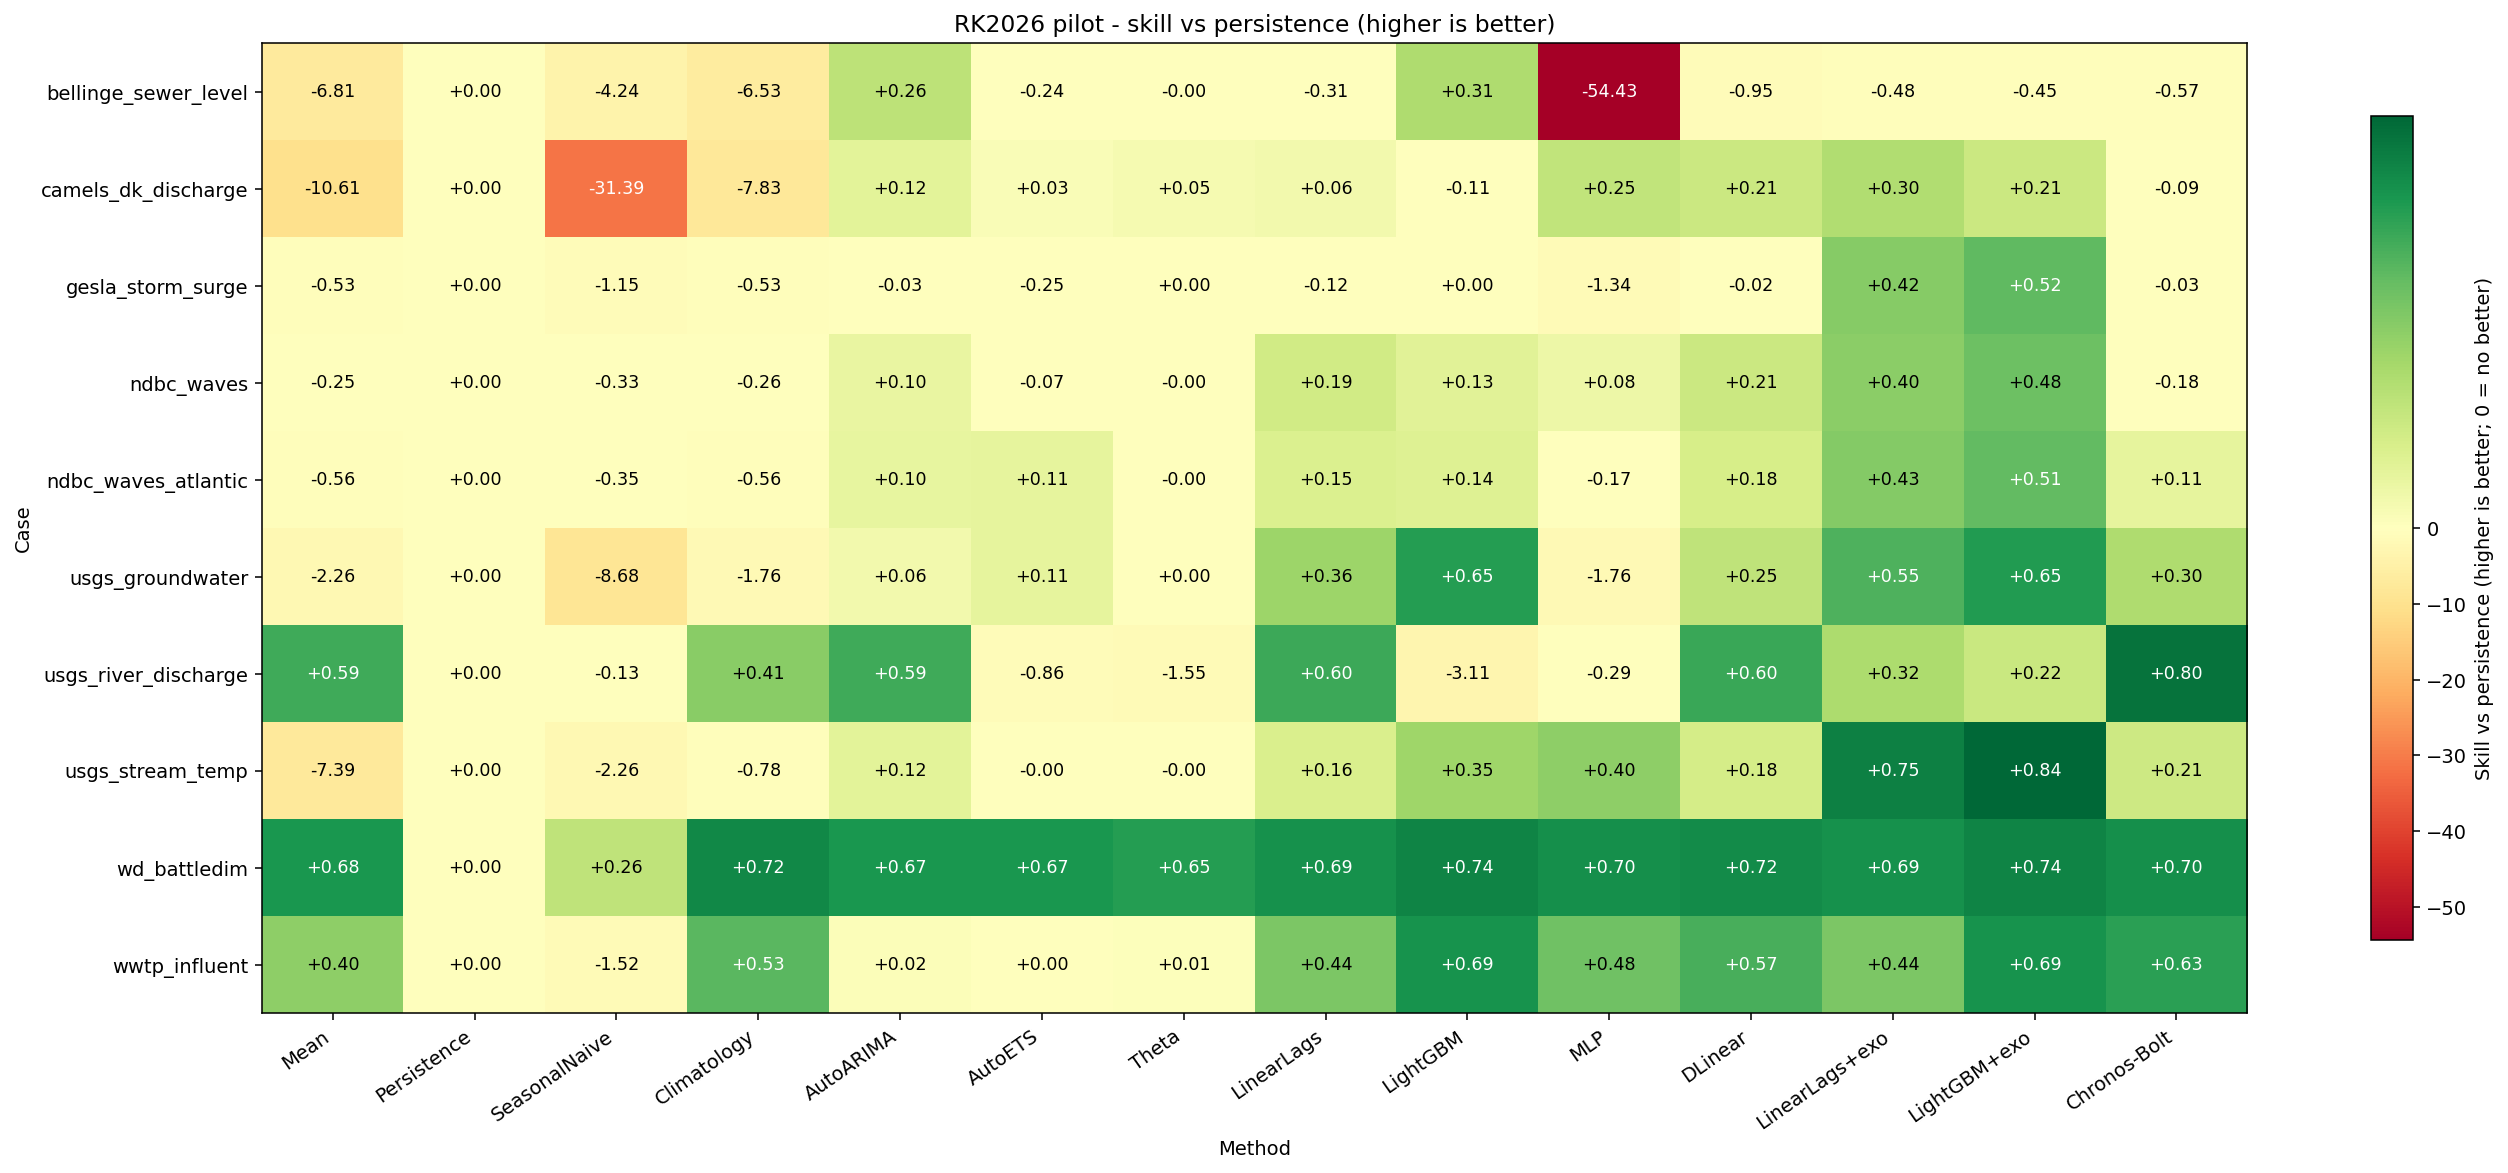
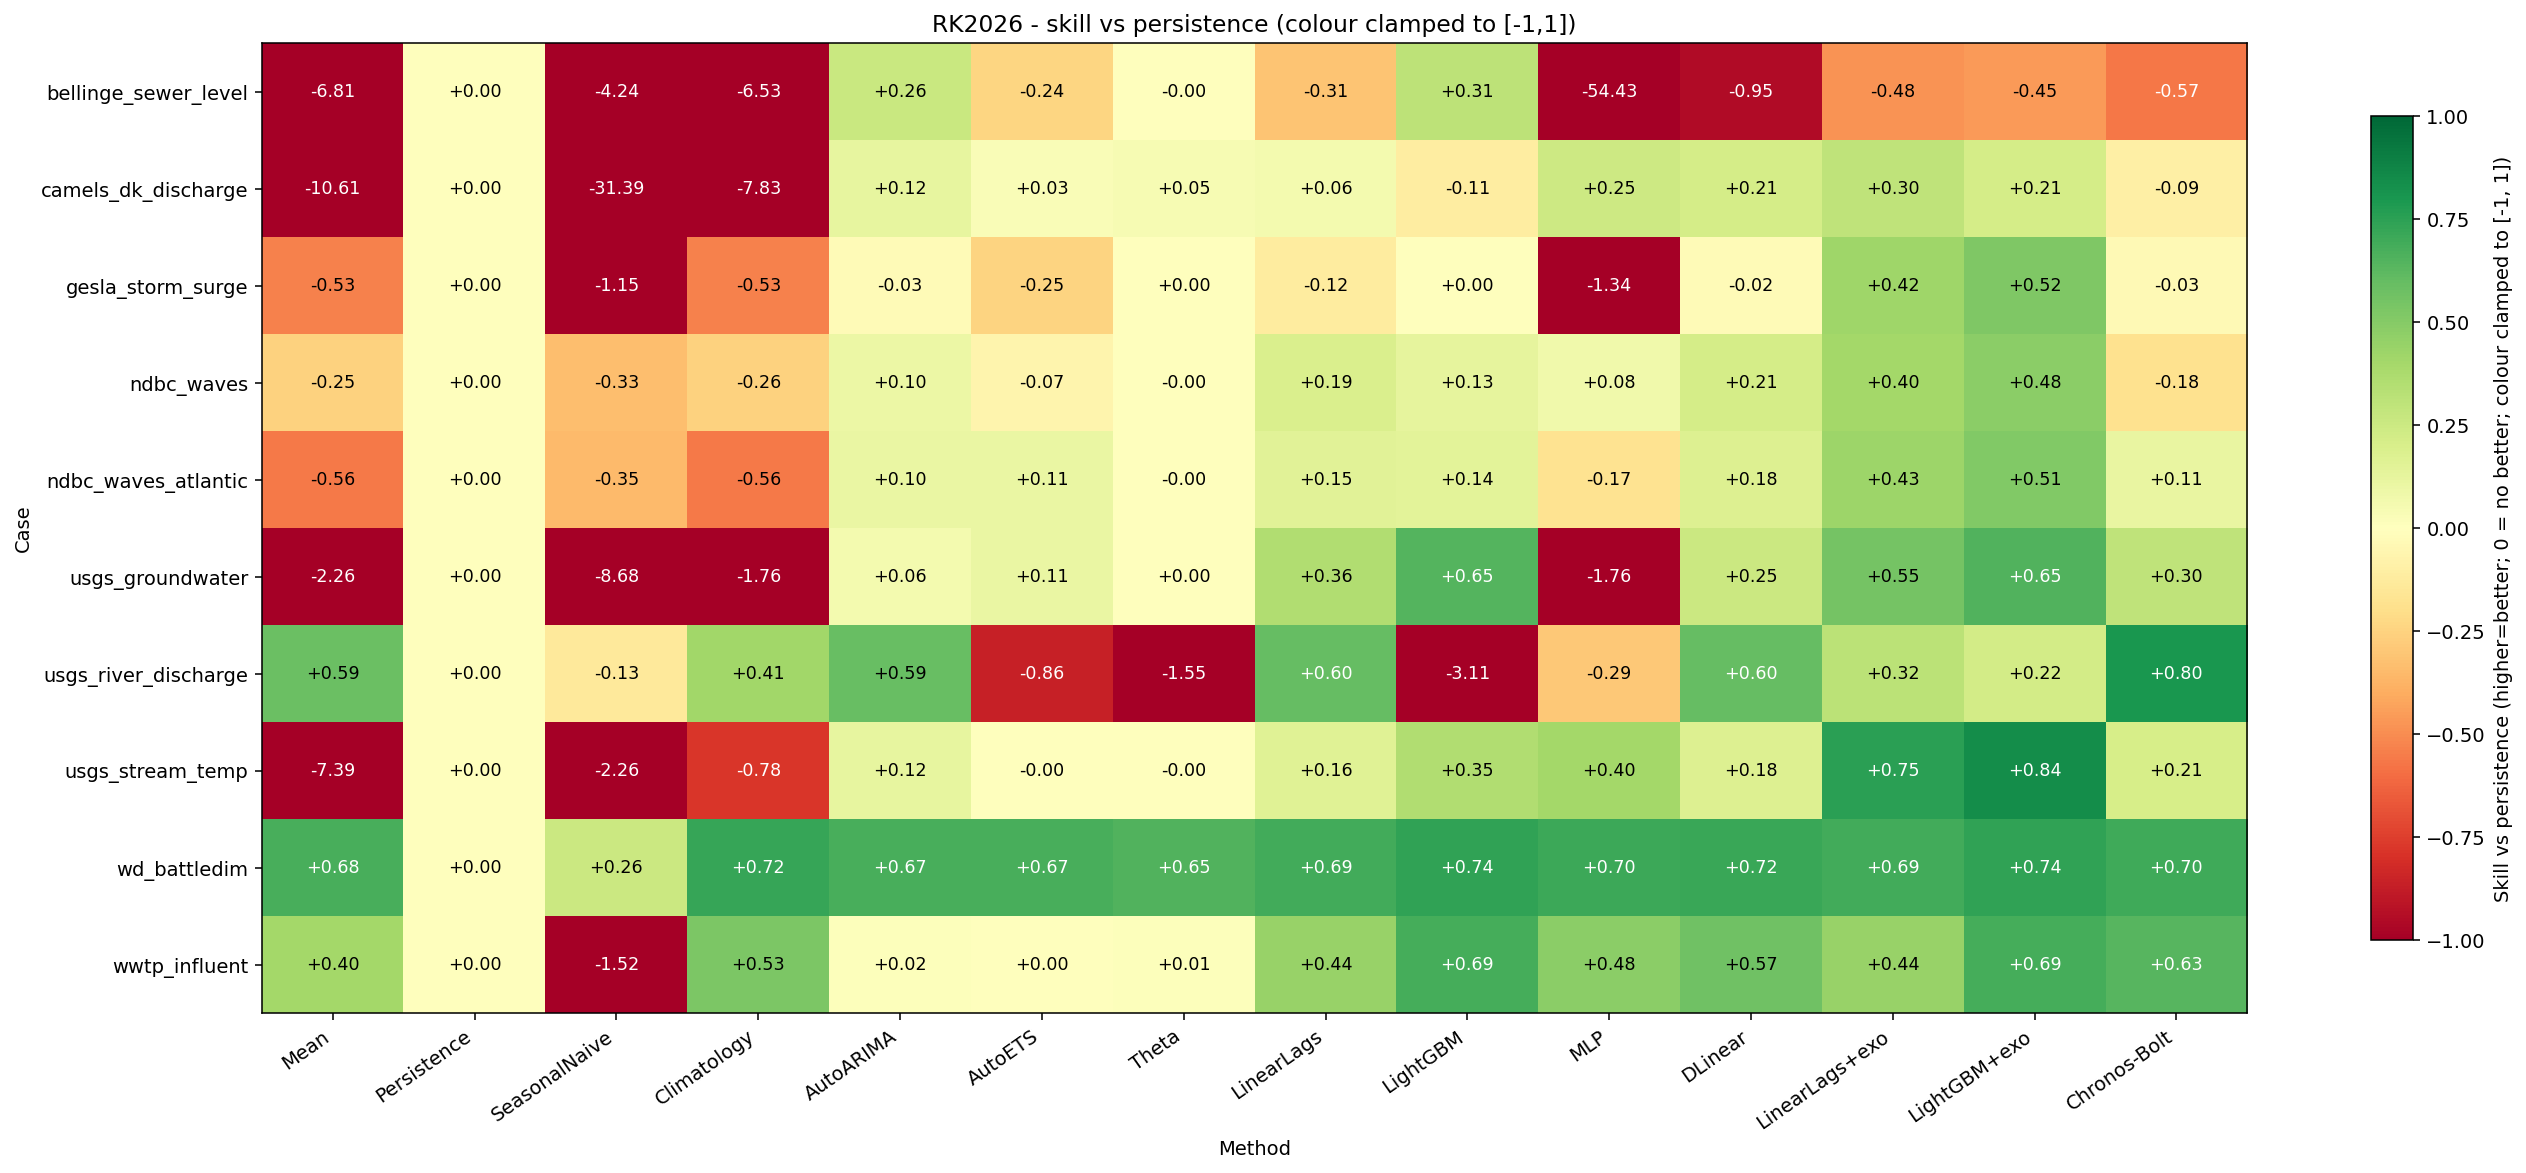
fix(viz): clamp matrix colour scale so outliers don't wash it out
A single catastrophic cell (e.g. MLP at skill -16.65 on bellinge) set the
TwoSlopeNorm vmin to -16, compressing every meaningful value into a sliver of
the colormap so real differences were invisible. The colour scale is now clamped
per metric — skill to [-1, 1], MASE to [0, 2] — with cells beyond saturating to
the end colour while their TRUE value is still printed. render_matrix gains
optional vlo/vhi overrides; Skill_vs_Mean gained its own (previously default)
config. Colourbar labels note the clamp. Regenerated the benchmark matrix figures.

diff --git a/src/tsforecastbench/bench/viz/matrix.py b/src/tsforecastbench/bench/viz/matrix.py
@@ -9,17 +9,33 @@ import numpy as np
 import pandas as pd
 from matplotlib.colors import TwoSlopeNorm
 
+# `vlo`/`vhi` clamp the COLOUR scale (not the printed numbers): a single catastrophic
+# cell (e.g. an MLP at skill -16) would otherwise compress the whole colormap so every
+# meaningful difference looks identical. Cells beyond the clamp saturate to the end colour
+# while their true value is still written in the cell.
 _METRIC_CONFIG = {
     "MASE": {
         "cmap": "RdYlGn_r",
         "center": 1.0,
-        "label": "MASE (lower is better; 1 = seasonal naive)",
+        "vlo": 0.0,
+        "vhi": 2.0,
+        "label": "MASE (lower=better; 1 = seasonal naive; colour clamped to [0, 2])",
         "fmt": "{:.2f}",
     },
     "Skill_vs_Persistence": {
         "cmap": "RdYlGn",
         "center": 0.0,
-        "label": "Skill vs persistence (higher is better; 0 = no better)",
+        "vlo": -1.0,
+        "vhi": 1.0,
+        "label": "Skill vs persistence (higher=better; 0 = no better; colour clamped to [-1, 1])",
+        "fmt": "{:+.2f}",
+    },
+    "Skill_vs_Mean": {
+        "cmap": "RdYlGn",
+        "center": 0.0,
+        "vlo": -1.0,
+        "vhi": 1.0,
+        "label": "Skill vs mean (higher=better; 0 = no better; colour clamped to [-1, 1])",
         "fmt": "{:+.2f}",
     },
     "MAE": {"cmap": "Reds", "center": None, "label": "MAE (lower is better)", "fmt": "{:.3g}"},
@@ -33,6 +49,8 @@ def render_matrix(
     out_path: Path | None = None,
     title: str | None = None,
     method_order: list[str] | None = None,
+    vlo: float | None = None,
+    vhi: float | None = None,
 ) -> plt.Figure:
     cfg = _METRIC_CONFIG.get(
         metric, {"cmap": "viridis", "center": None, "label": metric, "fmt": "{:.3g}"}
@@ -51,11 +69,16 @@ def render_matrix(
     fig, ax = plt.subplots(figsize=(1.2 * n_cols + 3, 0.6 * n_rows + 2.5))
 
     if cfg["center"] is not None and np.isfinite(data).any():
-        vmin = float(np.nanmin(data))
-        vmax = float(np.nanmax(data))
-        vmin = min(vmin, cfg["center"] - 1e-9)
-        vmax = max(vmax, cfg["center"] + 1e-9)
-        norm = TwoSlopeNorm(vmin=vmin, vcenter=cfg["center"], vmax=vmax)
+        center = cfg["center"]
+        # clamp bounds: explicit args > config > data range
+        lo = vlo if vlo is not None else cfg.get("vlo")
+        hi = vhi if vhi is not None else cfg.get("vhi")
+        vmin = float(lo) if lo is not None else float(np.nanmin(data))
+        vmax = float(hi) if hi is not None else float(np.nanmax(data))
+        vmin = min(vmin, center - 1e-9)
+        vmax = max(vmax, center + 1e-9)
+        # TwoSlopeNorm with clip so out-of-range cells saturate to the end colour
+        norm = TwoSlopeNorm(vmin=vmin, vcenter=center, vmax=vmax)
         im = ax.imshow(data, cmap=cfg["cmap"], norm=norm, aspect="auto")
     else:
         im = ax.imshow(data, cmap=cfg["cmap"], aspect="auto")

diff --git a/tests/test_pipeline_synth.py b/tests/test_pipeline_synth.py
@@ -160,6 +160,20 @@ def test_matrix_renders(tmp_path):
     assert (tmp_path / "m.png").exists()
 
 
+def test_matrix_colour_scale_clamped_to_outlier(tmp_path):
+    """A catastrophic outlier must not skew the colour scale: the norm clamps to [-1, 1]
+    for skill while the cell still renders. (User-reported: a -16 cell washed out the map.)"""
+    rows = []
+    for method, val in [("Good", 0.5), ("Bad", -16.65)]:
+        rows.append({"case_id": "c1", "domain": "d", "method": method,
+                     "horizon": "1h", "metric": "Skill_vs_Persistence", "value": val})
+    fig = render_matrix(pd.DataFrame(rows), metric="Skill_vs_Persistence",
+                        out_path=tmp_path / "skill.png")
+    norm = fig.axes[0].images[0].norm
+    assert norm.vmin == -1.0 and norm.vmax == 1.0  # clamped, not -16.65
+    assert (tmp_path / "skill.png").exists()
+
+
 def test_leadtime_plot_renders(tmp_path):
     case = get_case("ndbc_waves")
     curve = run_leadtime_curve(case, [MeanBaseline(), Persistence()], n_origins=5, prefer_synth=True)
